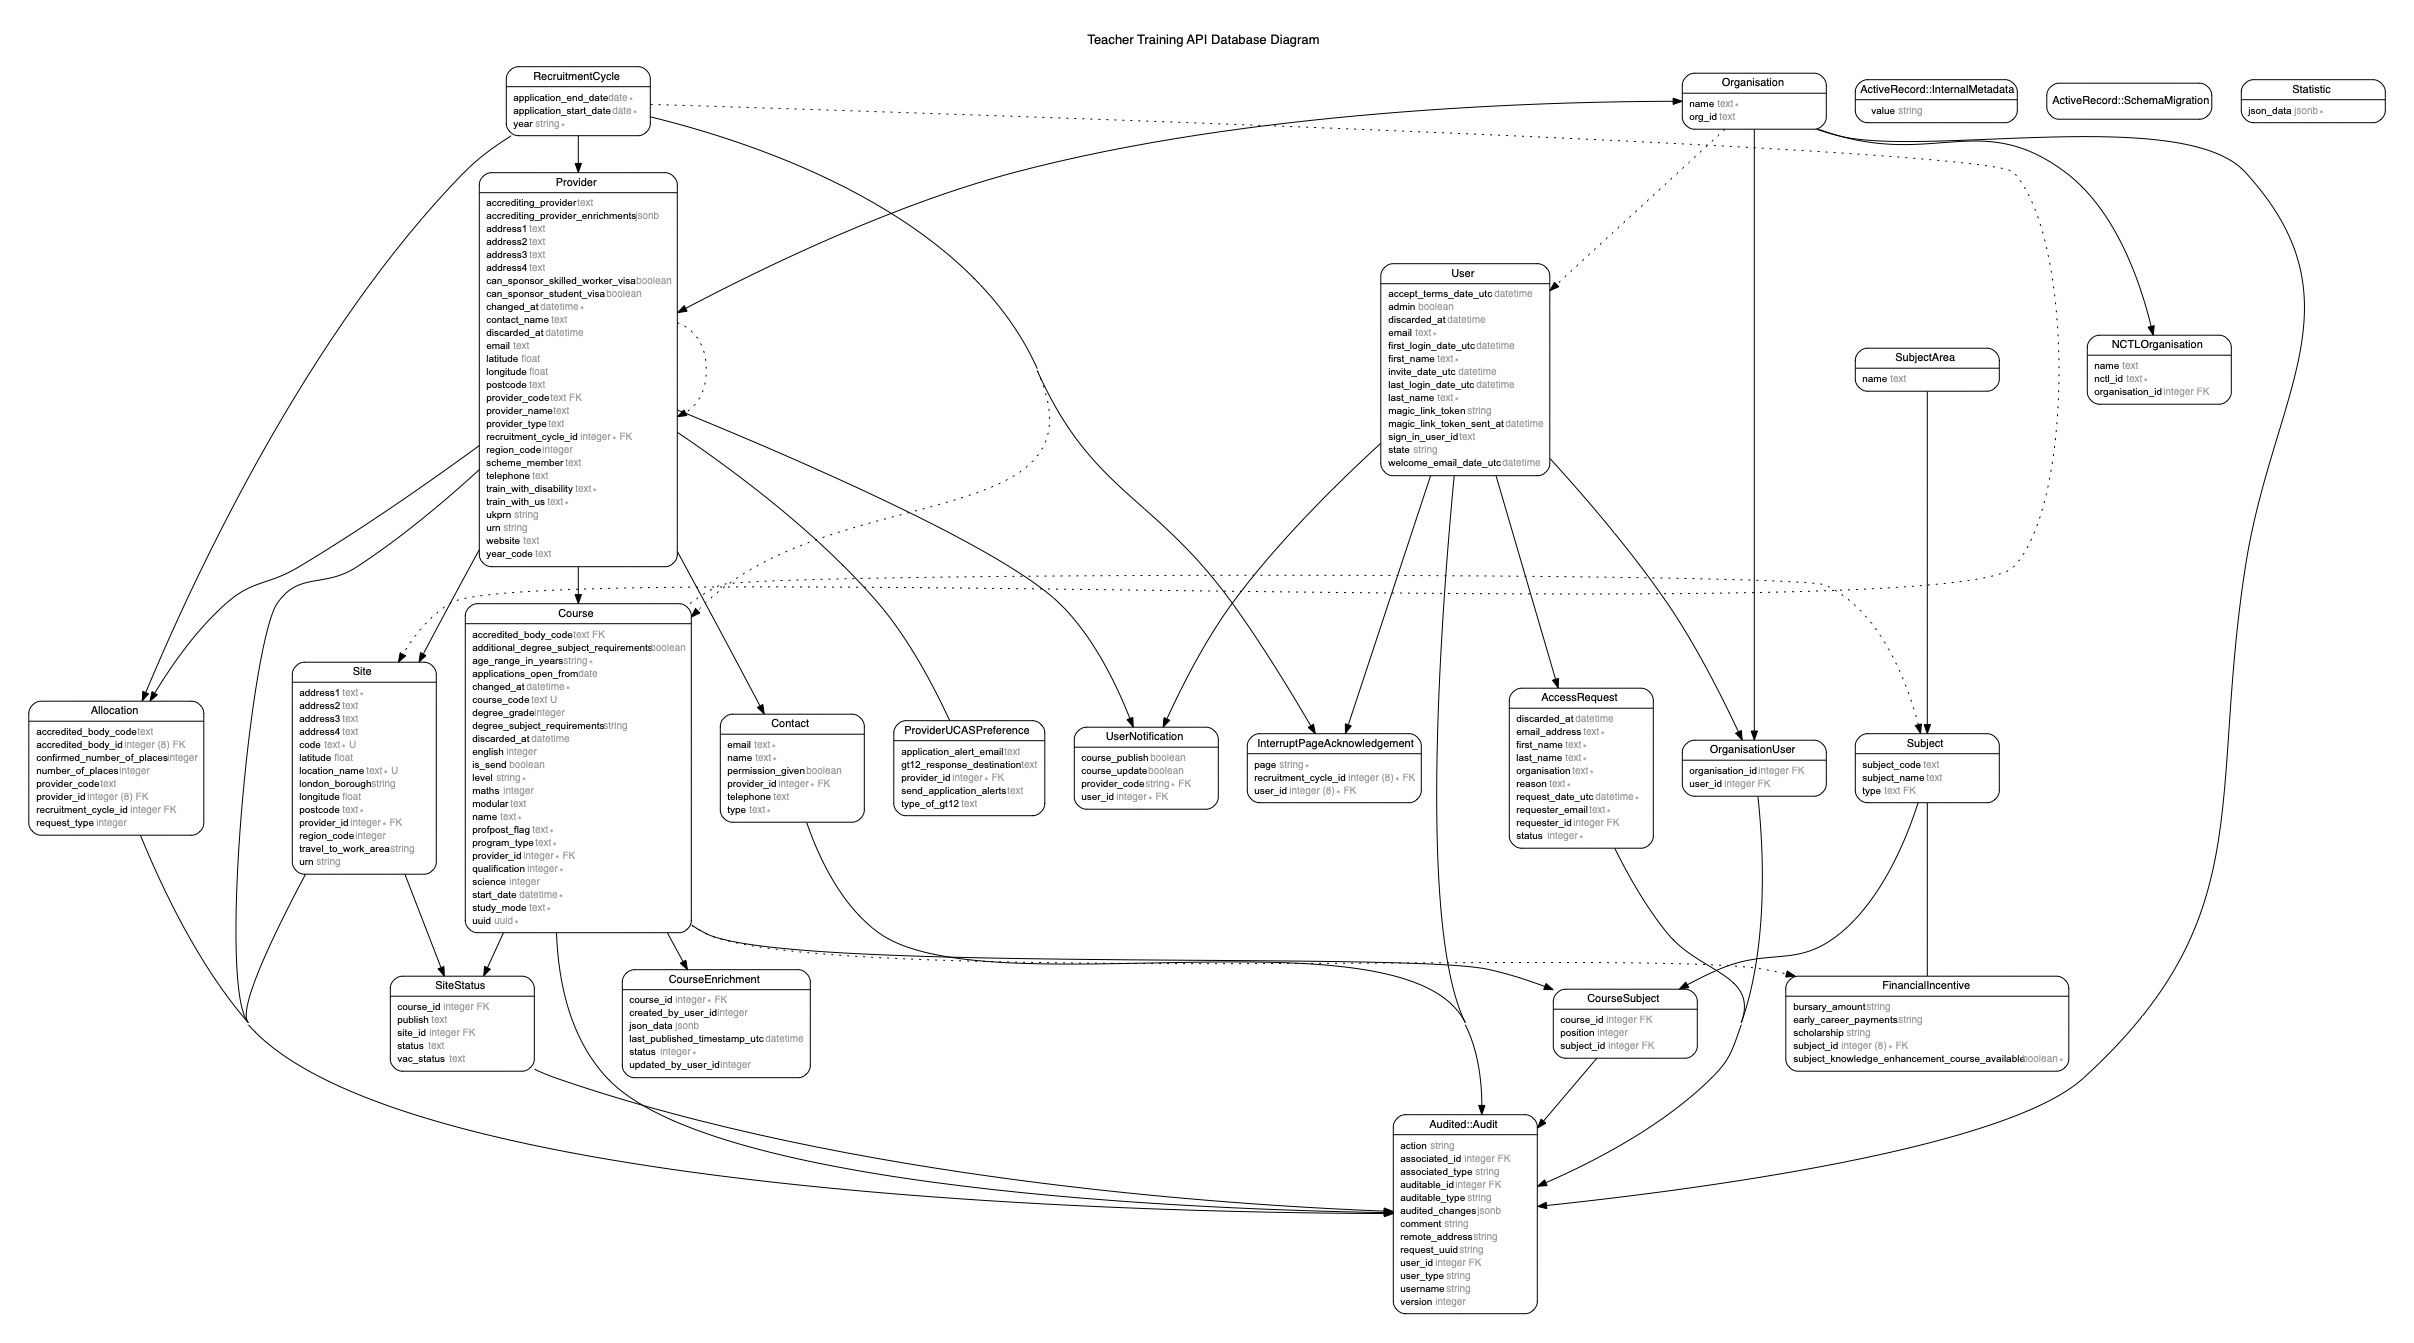
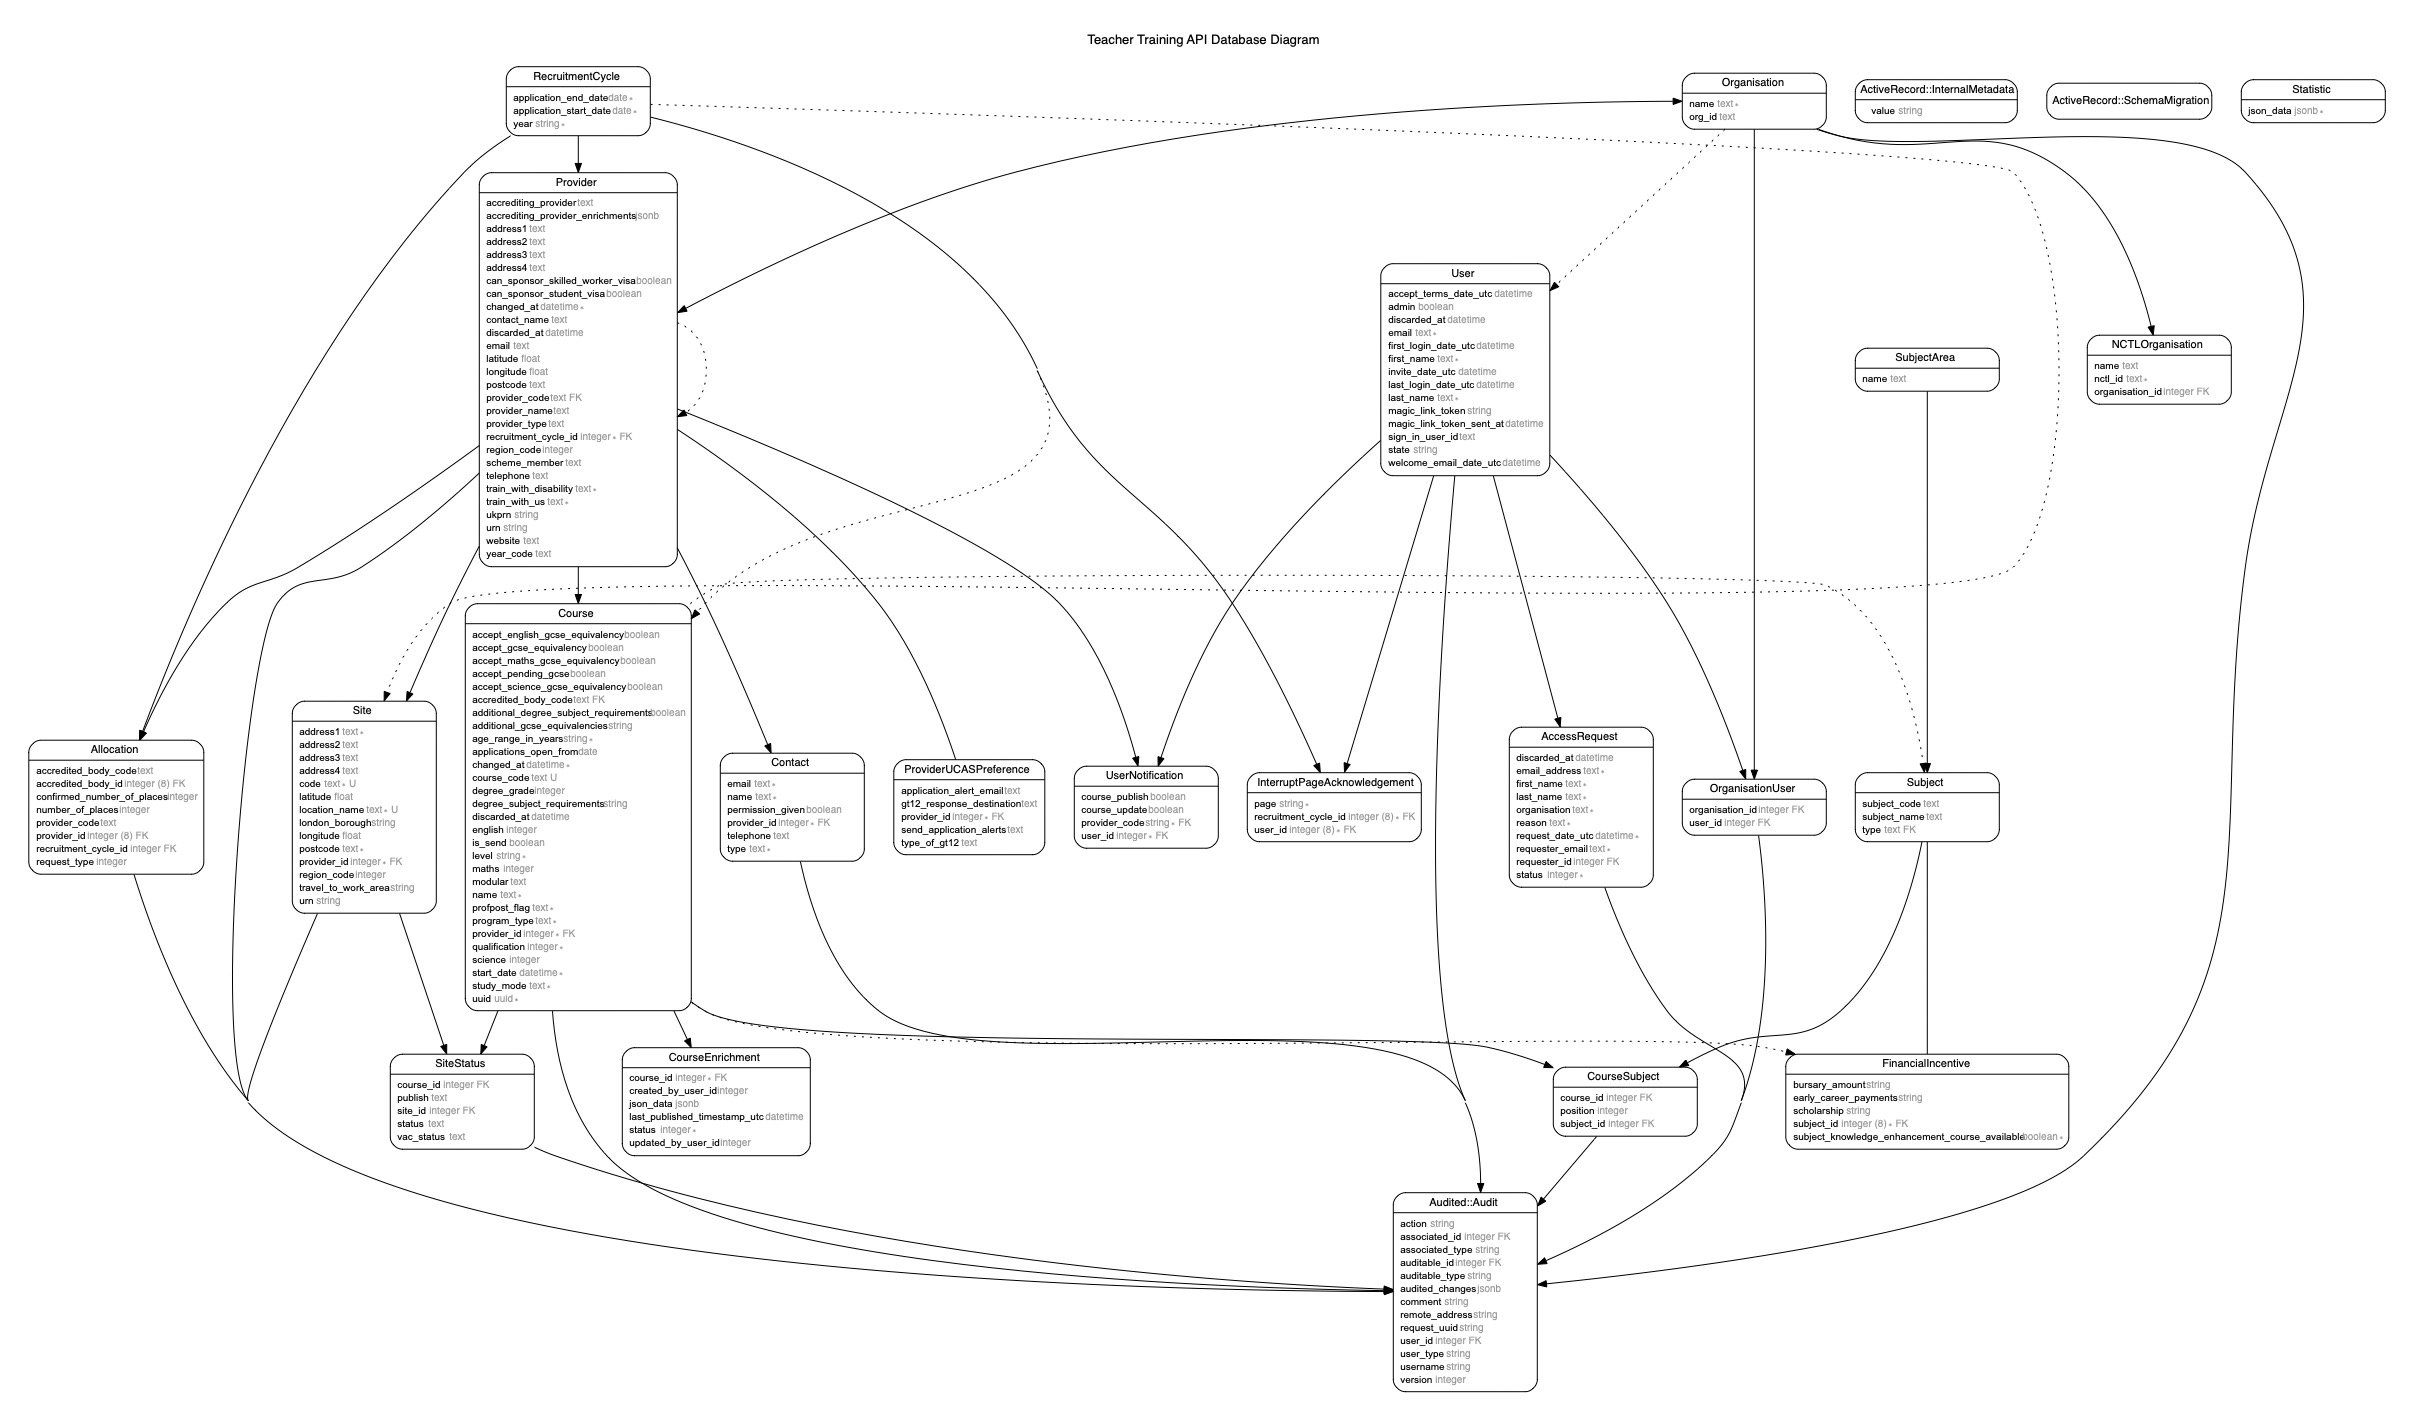
Add Structured GCSE Columns to course table
As part of a redesign on the front end of publish additonal values are required to capture
GCSE reqs in a structured format. This PR adds a migration for these values.

diff --git a/db/schema.rb b/db/schema.rb
@@ -10,7 +10,7 @@
 #
 # It's strongly recommended that you check this file into your version control system.
 
-ActiveRecord::Schema.define(version: 2021_06_09_081246) do
+ActiveRecord::Schema.define(version: 2021_06_14_130500) do
 
   # These are extensions that must be enabled in order to support this database
   enable_extension "btree_gin"
@@ -119,6 +119,12 @@ ActiveRecord::Schema.define(version: 2021_06_09_081246) do
     t.integer "degree_grade"
     t.boolean "additional_degree_subject_requirements"
     t.string "degree_subject_requirements"
+    t.boolean "accept_pending_gcse", default: false
+    t.boolean "accept_gcse_equivalency", default: false
+    t.boolean "accept_english_gcse_equivalency", default: false
+    t.boolean "accept_maths_gcse_equivalency", default: false
+    t.boolean "accept_science_gcse_equivalency", default: false
+    t.string "additional_gcse_equivalencies"
     t.index ["accredited_body_code"], name: "index_course_on_accredited_body_code"
     t.index ["changed_at"], name: "index_course_on_changed_at", unique: true
     t.index ["discarded_at"], name: "index_course_on_discarded_at"

diff --git a/db/migrate/20210614130500_add_structured_gcse_columns_to_course_table.rb b/db/migrate/20210614130500_add_structured_gcse_columns_to_course_table.rb
@@ -1,0 +1,10 @@
+class AddStructuredGcseColumnsToCourseTable < ActiveRecord::Migration[6.1]
+  def change
+    add_column :course, :accept_pending_gcse, :boolean, default: false
+    add_column :course, :accept_gcse_equivalency, :boolean, default: false
+    add_column :course, :accept_english_gcse_equivalency, :boolean, default: false
+    add_column :course, :accept_maths_gcse_equivalency, :boolean, default: false
+    add_column :course, :accept_science_gcse_equivalency, :boolean, default: false
+    add_column :course, :additional_gcse_equivalencies, :string
+  end
+end
